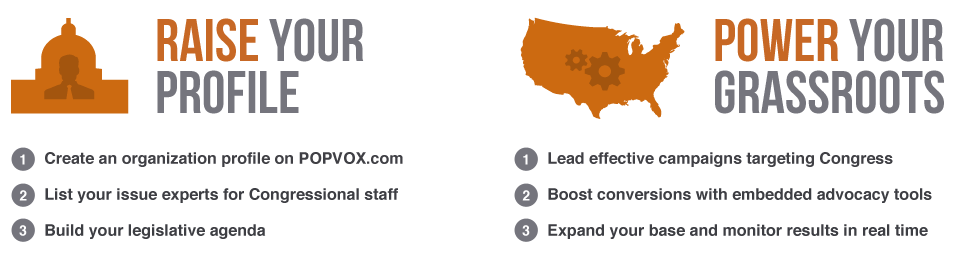
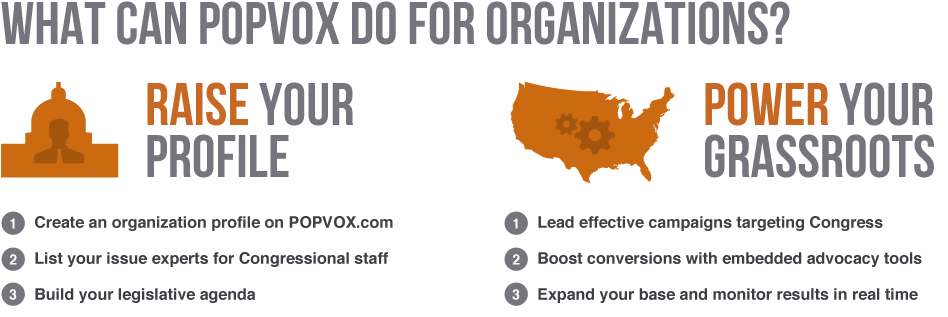
org landing page tweaks and email rachna

diff --git a/site/templates/static/organization.html b/site/templates/static/organization.html
@@ -11,6 +11,80 @@
 <style>
 	.colorbox { width: 500px; height: 500px; }
 	#whoami { display: none; }
+	
+.olp #page {
+	background: url(/media/master/bg_olp.png) 17px 32px no-repeat;
+/*	background: url(http://www.acreativeconcern.com/files/fileshuttle/org-landing_d065.jpg) -110px -105px no-repeat;*/
+	}
+	
+	.olp h1#landing {
+		background: url(/media/master/what_can.png) -96px 20px no-repeat;
+		}
+	
+	.olp .hm_slide_mid {
+		background: none;
+		margin-top: 20px;
+		height: 470px;
+		}
+		
+		#ask_r {
+			float: right;
+			}
+			
+			#ask_r a {
+				display: block;
+				width: 122px;
+				height: 49px;
+				background: url(/media/master/b_got_questions.png) left top no-repeat;
+				display: block;
+				}
+				
+			#ask_r a:hover {
+				background-position: left bottom;
+				border: 0;
+				}
+		
+		.olp .hm_slide_mid h1 {
+			height: 100px;
+			}
+			
+		.olp .hm_slide_mid ul {
+			height: 208px;
+			}
+		
+	.left_olp {
+		display: block;
+		float: left;
+		width: 469px;
+		height: 400px;
+		}
+
+	.right_olp {
+		display: block;
+		float: left;
+		width: 4689x;
+		height: 400px;
+		}
+		
+		.b_create_profile_now {
+		    width: 225px;
+		    height: 76px;
+		    background: url(/media/master/b_create_profile_now.png) left top no-repeat;
+		    display: block;
+		    text-indent: -9999em;
+		    margin-left: 30px;
+		    border: none;
+		    }
+
+		.b_get_robust_tools {
+		    width: 225px;
+		    height: 76px;
+		    background: url(/media/master/b_get_robust_tools.png) left top no-repeat;
+		    display: block;
+		    text-indent: -9999em;
+		    margin-left: 65px;
+		    border: none;
+		    }
 </style>
 <script>
 function zoompop(id) {
@@ -40,6 +114,7 @@ function subscribe(validate) {
 <div class="hm_slide">
 	<div class="hm_slide_mid">
 		<div class="hm_slide_div">
+			<div id="ask_r"><a href="mailto:rachna@popvox.com?subject=I need some help with POPVOX for Organizations"></a></div>
 			<div class="left_olp">
 				<h1><span>Raise</span> Your Profile</h1>
 				<ul>
